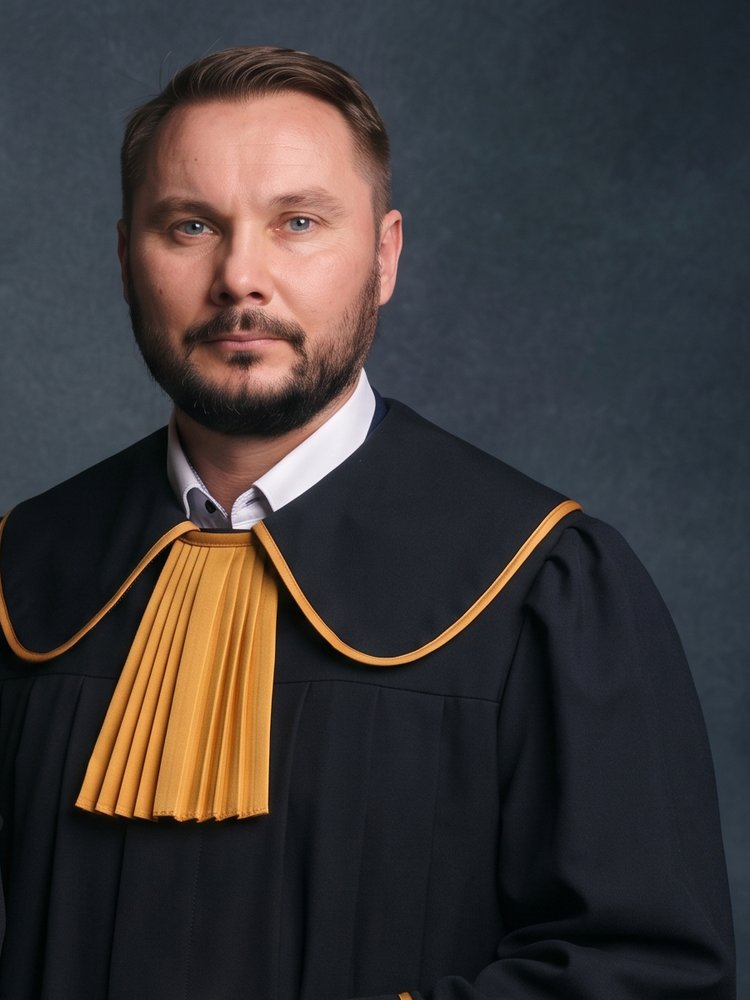
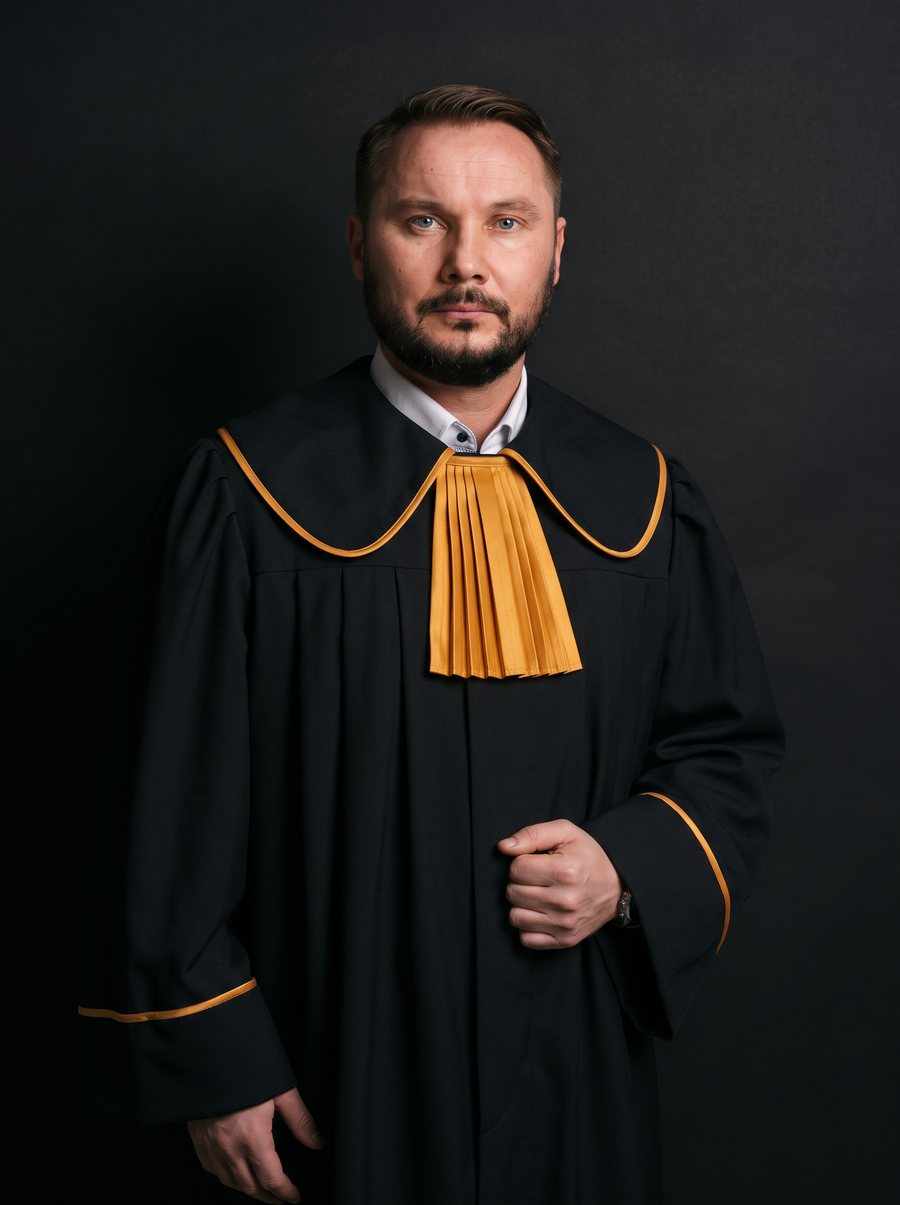
Zespół: zdjęcia w togach z rkdp.pl
Claude-Session: https://claude.ai/code/session_01RLm7QKgLdo8Pe8CztPjXyS

diff --git a/zespol/index.html b/zespol/index.html
@@ -63,7 +63,7 @@
     </div>
     <div class="team">
       <article class="person">
-        <img src="../img/michal-ruszniak-toga.jpg" alt="Michał Ruszniak" width="750" height="1000" loading="lazy">
+        <img src="../img/michal-ruszniak-toga.jpg" alt="Michał Ruszniak" width="900" height="1205" loading="lazy">
         <div class="info">
           <span class="ref">Doradca podatkowy nr 15009</span>
           <h3>Michał Ruszniak</h3>
@@ -78,7 +78,7 @@
         </div>
       </article>
       <article class="person">
-        <img src="../img/marcin-otreba-toga.jpg" alt="Marcin Otręba" width="750" height="1000" loading="lazy">
+        <img src="../img/marcin-otreba-toga.jpg" alt="Marcin Otręba" width="900" height="1205" loading="lazy">
         <div class="info">
           <span class="ref">Doradca podatkowy nr 14609</span>
           <h3>Marcin Otręba</h3>

diff --git a/assets/site.css b/assets/site.css
@@ -186,7 +186,7 @@ p{margin:0}
 /* Team */
 .team{display:grid;grid-template-columns:1fr 1fr;gap:20px}
 .person{background:var(--ink-2);border:1px solid var(--ink-line);border-radius:12px;overflow:hidden;display:grid;grid-template-columns:1fr;grid-template-rows:auto 1fr;min-width:0}
-.person img{width:100%;height:auto;aspect-ratio:5/4;object-fit:cover;object-position:50% 4%;display:block}
+.person img{width:100%;height:auto;aspect-ratio:5/4;object-fit:cover;object-position:50% 6%;display:block}
 .person .info{padding:26px 24px;display:grid;gap:12px;align-content:start;min-width:0}
 .person h3{font-size:24px;font-weight:800;color:#fff}
 .person .role{font-size:15px;color:var(--on-ink-muted)}

diff --git a/tools/build.py b/tools/build.py
@@ -250,9 +250,9 @@ SPECS = [
 ]
 
 PEOPLE = [
-    ("michal-ruszniak-toga.jpg", 750, 1000, "Michał Ruszniak", "15009",
+    ("michal-ruszniak-toga.jpg", 900, 1205, "Michał Ruszniak", "15009",
      ["Założył kilkadziesiąt działalności gospodarczych i spółek prawa handlowego, więc zna podatki z przepisów i z codziennego prowadzenia firmy", "Specjalizuje się w obsłudze małych i średnich przedsiębiorstw oraz firm rodzinnych", "Pełnomocnik zawodowy w kontrolach, postępowaniach podatkowych i przed sądami administracyjnymi", "Prelegent ogólnopolskich konferencji naukowych poświęconych postępowaniom podatkowym", "Juror w finałach krajowych konkursów wiedzy o podatkach"]),
-    ("marcin-otreba-toga.jpg", 750, 1000, "Marcin Otręba", "14609",
+    ("marcin-otreba-toga.jpg", 900, 1205, "Marcin Otręba", "14609",
      ["Wieloletni pracownik Izby Skarbowej we Wrocławiu, trener Ministerstwa Finansów i Centrum Edukacji Zawodowej Resortu Finansów", "Doświadczenie na stanowiskach kierowniczych w międzynarodowych firmach z SSE i w renomowanych kancelariach podatkowych", "Od 2010 r. wykładowca prawa podatkowego na Uniwersytecie WSB Merito we Wrocławiu, kierownik merytoryczny studiów podyplomowych „Doradca podatkowy”, wykładowca MBA", "Szkoli Administrację Skarbową i oddziały Stowarzyszenia Księgowych w Polsce; autor publikacji m.in. dla Biuletynu VAT (INFOR)", "Specjalizuje się w VAT, CIT i PIT oraz w kontrolach podatkowych, celno-skarbowych i sporach przed sądami administracyjnymi"]),
 ]
 
